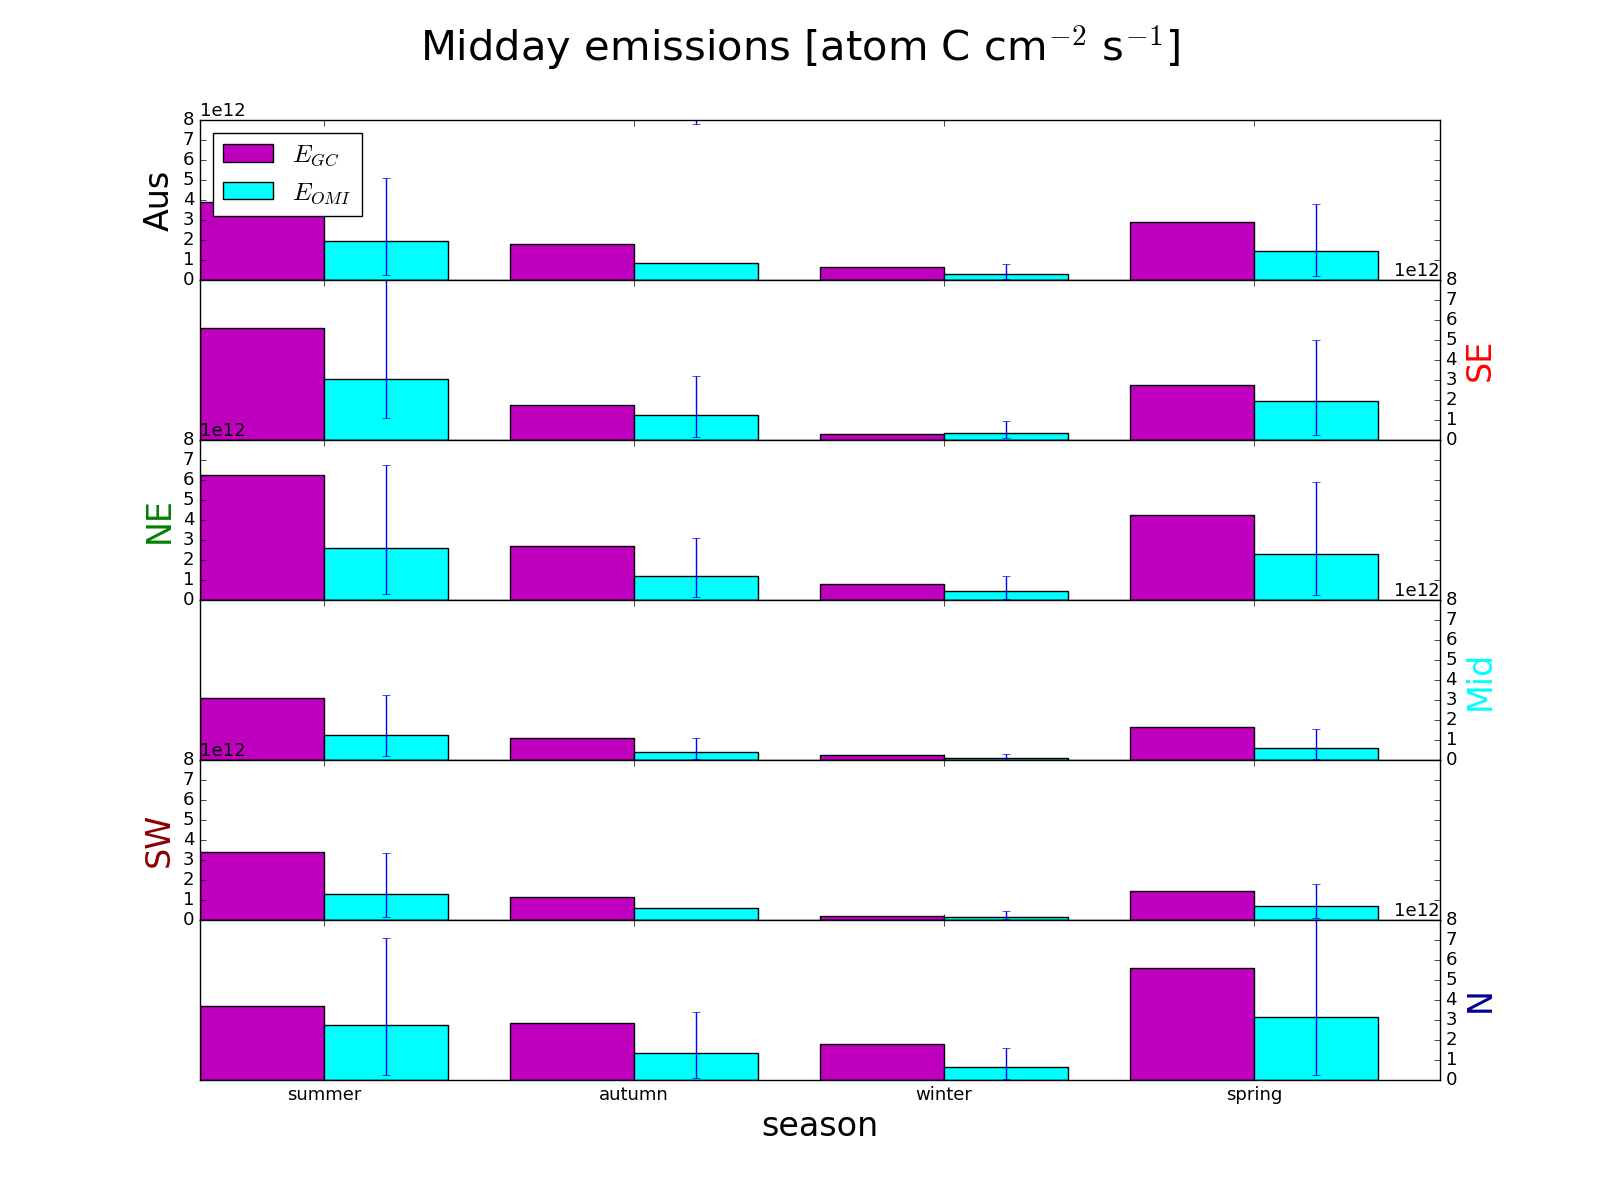
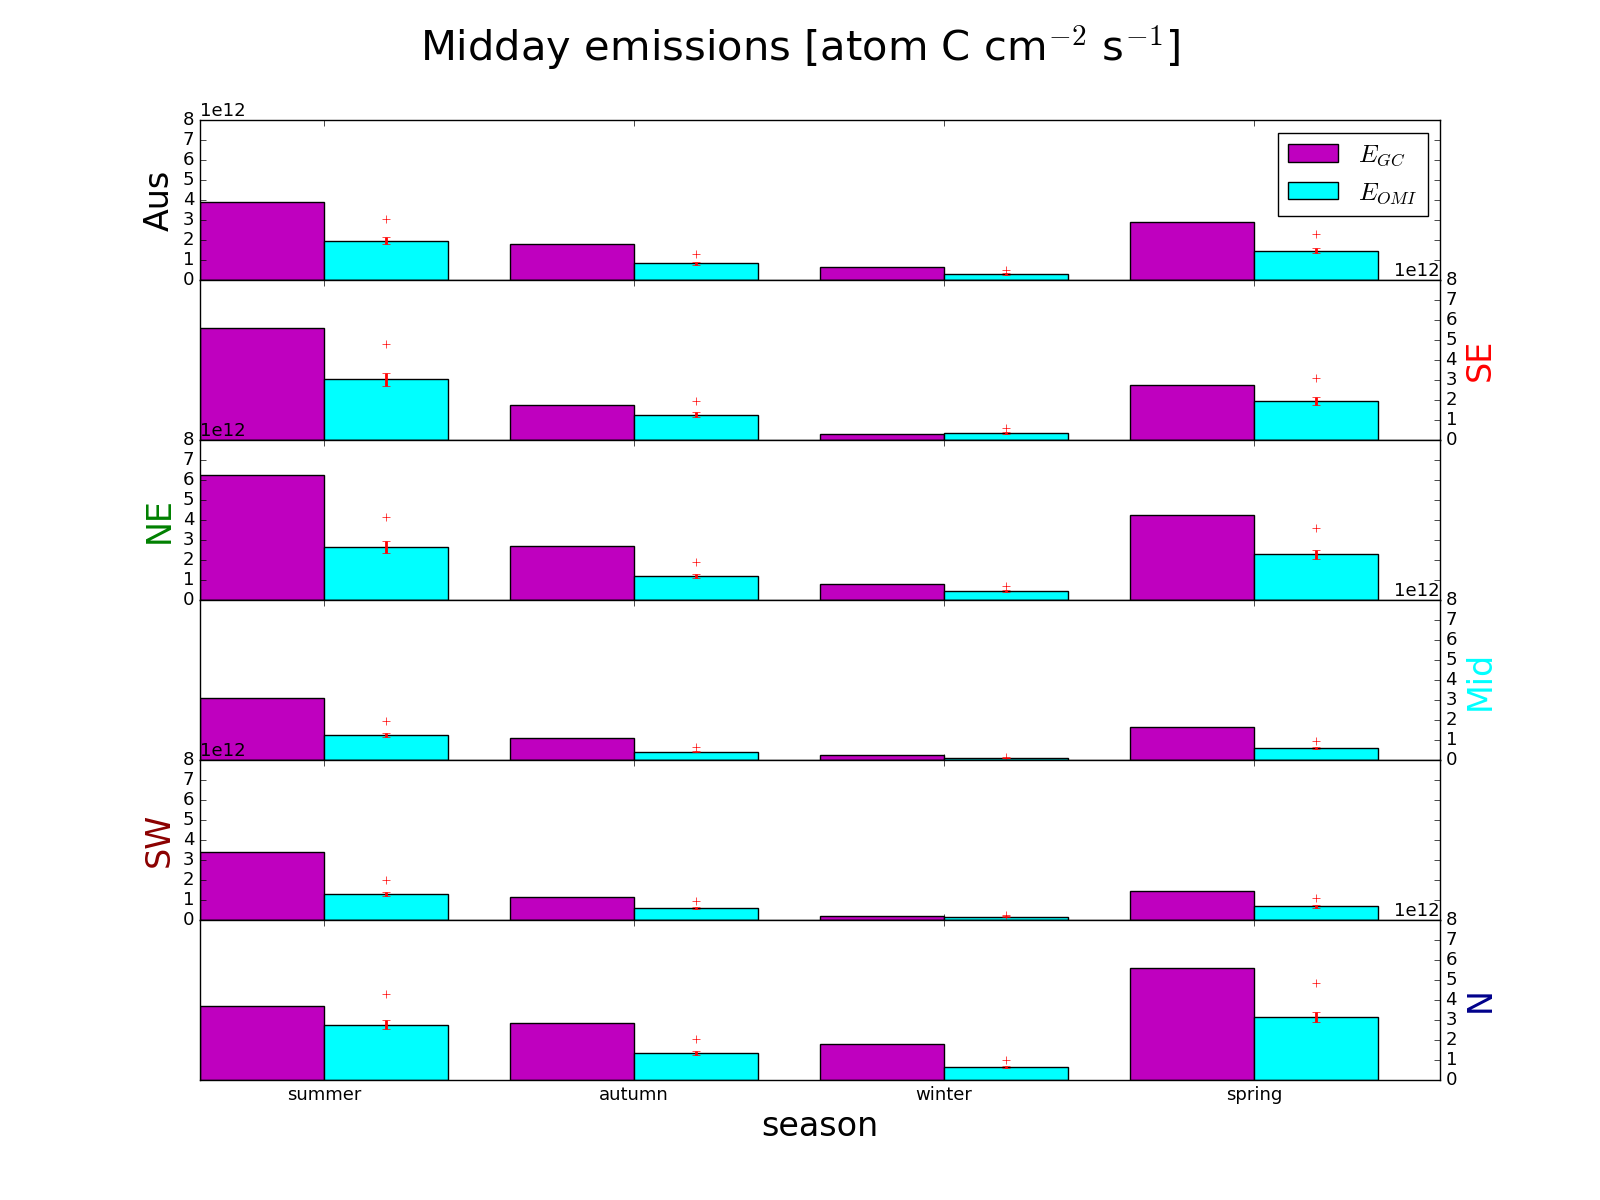
updated E_zones_diffs to have uncert and potential bias

Changed region(s): [[0.125, 0.0925, 0.25, 0.185], [0.7812, 0.0925, 0.9062, 0.185], [0.2188, 0.4317, 0.2812, 0.4625]]

diff --git a/chapter_3_isop.py b/chapter_3_isop.py
@@ -1310,7 +1310,7 @@ def regional_seasonal_comparison():
     
     # clear the super uncertain squares...
     E_PPm_lr = util.monthly_averaged(dates,enew.E_PP_lr,keep_spatial=True)['mean']
-    to_remove=uncerts_all > 5
+    to_remove=uncerts_all > 2
     prior_mean_E = np.nanmean(E_PPm_lr)
     prior_mean_rerr = np.nanmean(uncerts_all)
     E_PPm_lr[to_remove] = np.NaN
@@ -1361,16 +1361,17 @@ def regional_seasonal_comparison():
         # potential bias from satellite = 1/0.6 multiplyer
         # potential bias from monthly avg = 1/1.13 multiplyer
         # total bias could be up to factor of 1.47 
-        yerr = np.zeros([2,len(rerr)])
-        yerr[0,:] = apost - err
-        yerr[1,:] = apost * 1.47 + err
+        
+        yerr = err
+        yerrPotential = apost * 1.47 + err
         
         X = np.arange(4)
         width=0.4
         plt.bar(X + 0.00, apri, 
                 color = 'm', width = width, label=__apri__)
-        plt.bar(X + width, apost, yerr = yerr,
+        plt.bar(X + width, apost, yerr = yerr, error_kw={'elinewidth':2,'ecolor':'r'},
                 color = 'cyan', width = width, label=__apost__)
+        plt.plot(X+3/2.0 * width, yerrPotential, linestyle='', marker='+', color='r',)
         print("Region ", labels[i])
         print("apri, ",apri)
         print("apost, ",apost)

diff --git a/Analyse_E_isop.py b/Analyse_E_isop.py
@@ -1129,7 +1129,7 @@ def show_subregions():
                   fontsize='large'  )
     plt.savefig('Figs/subregions.png')
 
-def tga_summary(day0=datetime(2005,1,1), daye=datetime(2007,12,31)):
+def tga_summary(day0=datetime(2005,1,1), daye=datetime(2012,12,31)):
     '''
         calculate, print and plot emissions in Tg/annum from Enew and Egc
     '''
@@ -1175,8 +1175,8 @@ def tga_summary(day0=datetime(2005,1,1), daye=datetime(2007,12,31)):
         E_OMI_total = np.nansum(daily_kg,axis=0) * 1e-9 # kg/day -> total Tg
 
         print ('year: ',year.year)
-        print ('    global MEGAN : ' , np.sum(E_GC_total))
-        print ('    aus MEGAN    : ' , np.sum(E_GC_aus))
+        print ('    global MEGAN : ' , np.nansum(E_GC_total))
+        print ('    aus MEGAN    : ' , np.nansum(E_GC_aus))
         print ('    aus OMI      : ' , np.nansum(E_OMI_total))
         # store yearly total (keep spatial dims)
         omi.append(E_OMI_total)
